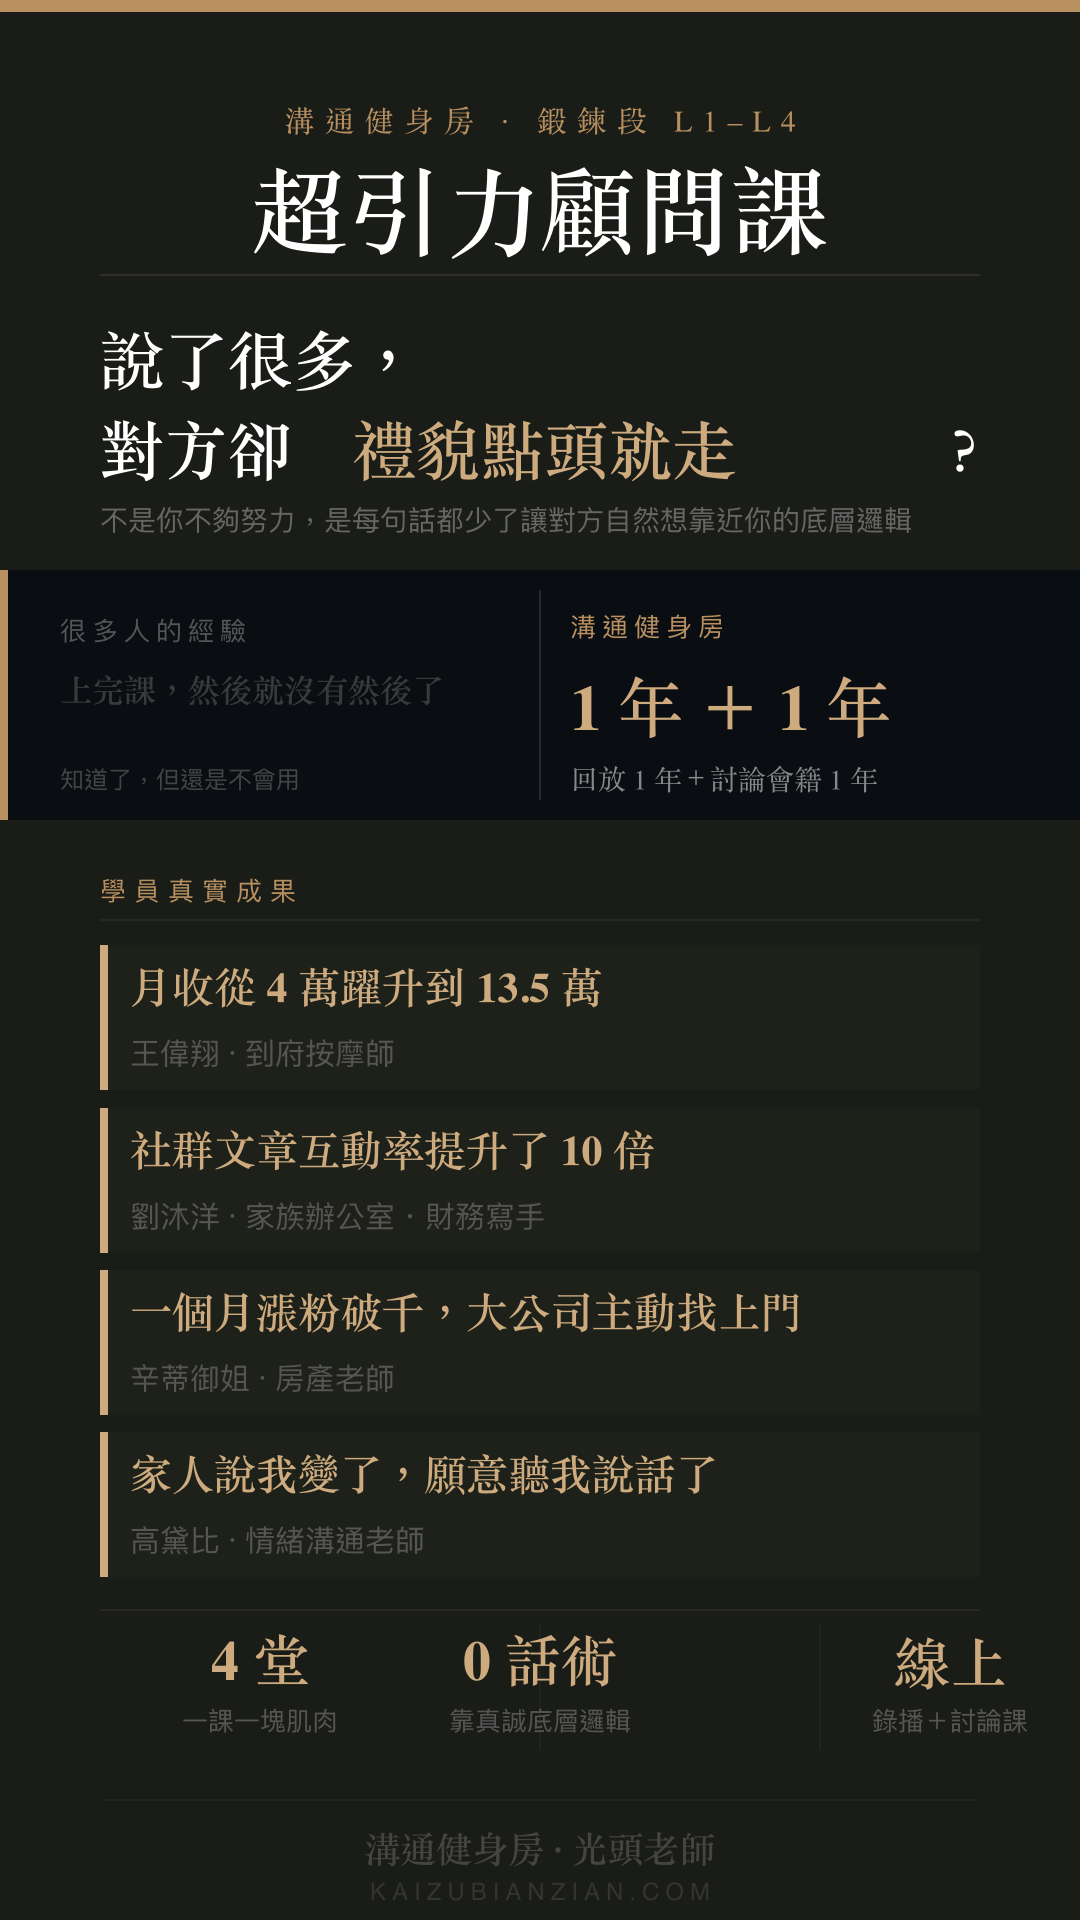
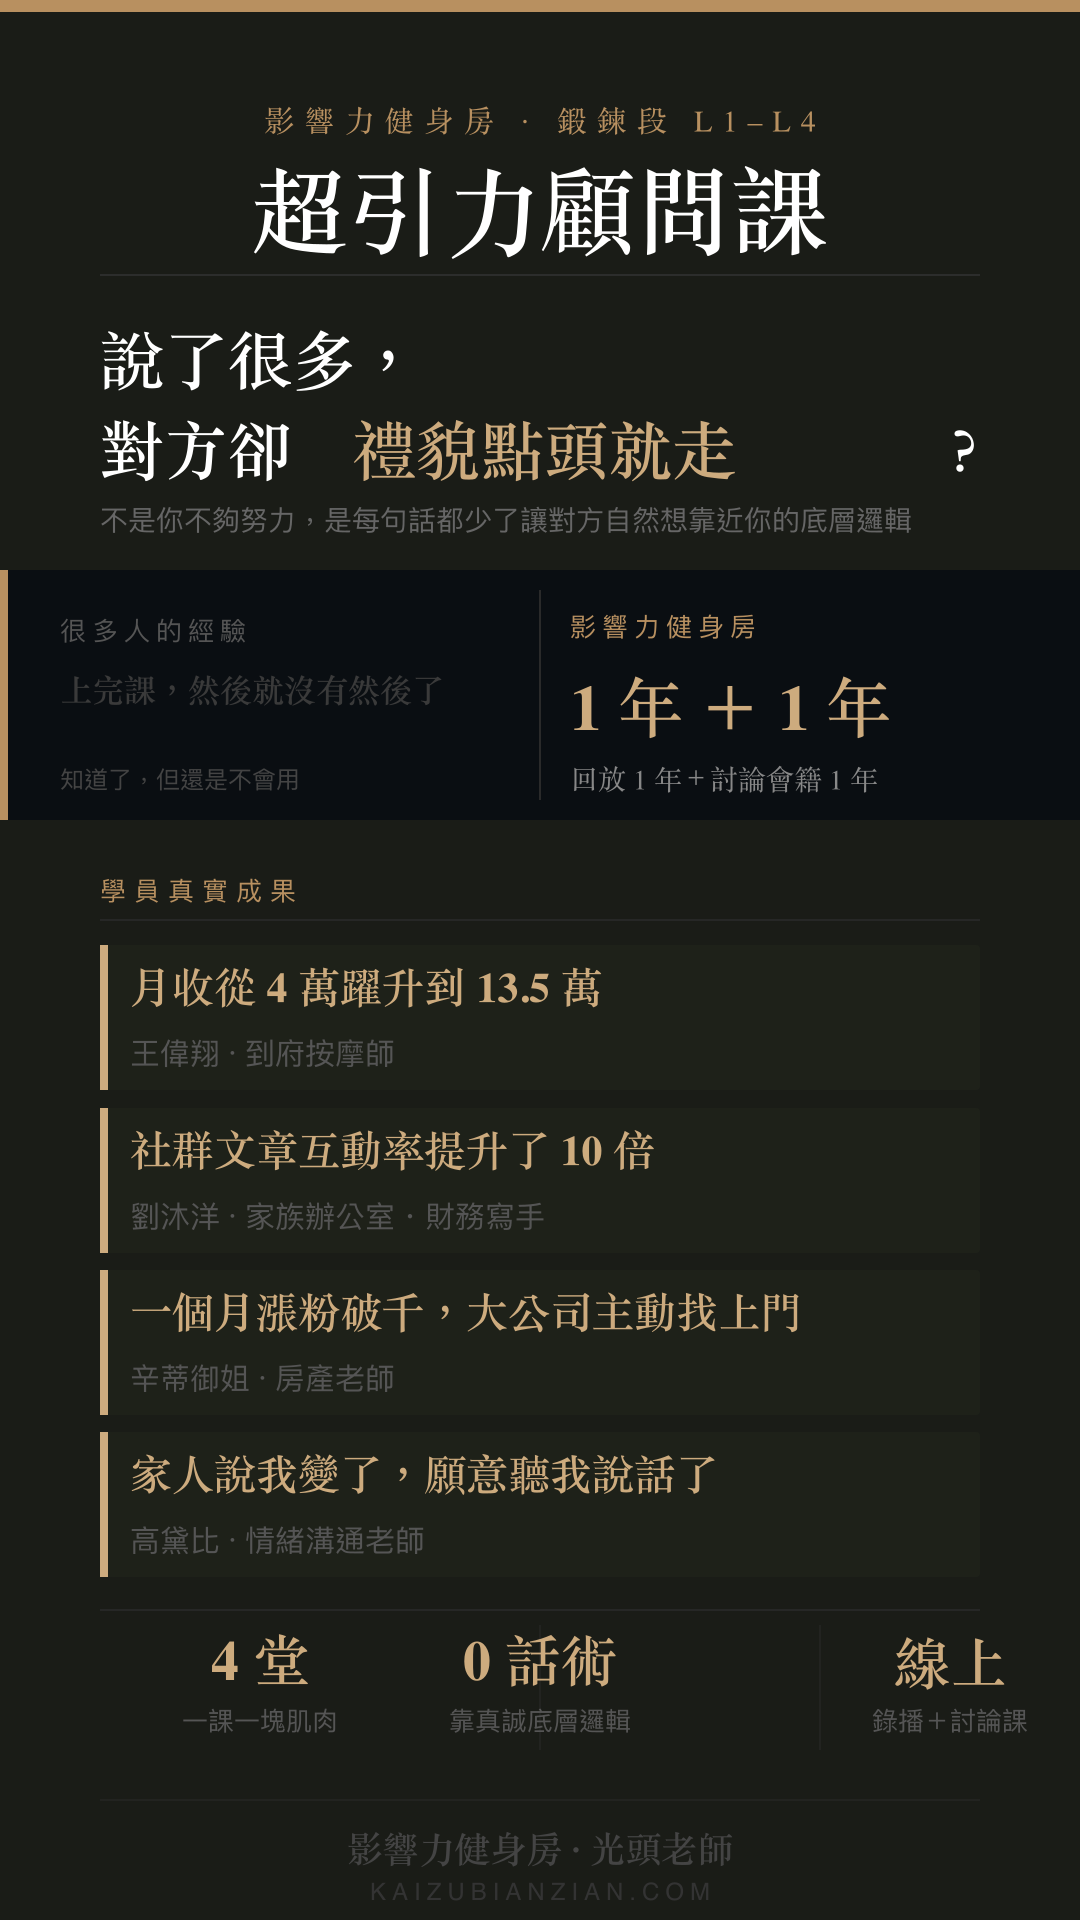
LP 三頁與三張海報補推 0903 改名：溝通健身房→影響力健身房
海報 SVG 改完已重跑 render-posters.js 出 PNG，否則對外看到的還是舊字。
講師頭銜順手拿掉「溝通」兩字（ATPI 四大肌肉框架創始人），直接替換會變成
「ATPI 影響力 4 大肌肉…影響力健身房創辦人」同句兩次影響力。

diff --git a/lplevel1.html b/lplevel1.html
@@ -351,14 +351,14 @@
 const LP = {
   // ── META ──────────────────────────────────────────────────
   meta: {
-    title:       "說了很多，對方卻點頭就走？｜溝通健身房",
+    title:       "說了很多，對方卻點頭就走？｜影響力健身房",
     description: "不靠話術，練出讓人自然想靠近你的吸引肌肉。",
     ogImage:     "photographic.PNG",
   },
 
   // ── NAV ───────────────────────────────────────────────────
   nav: {
-    brand:      "溝通健身房",
+    brand:      "影響力健身房",
     logoChar:   "光",
     ctaText:    "預約免費諮詢 →",
     ctaUrl:     "https://time.atpifit.com/",
@@ -397,7 +397,7 @@ const LP = {
     photoAlt: "光頭老師",
     tag:      "光頭教練 · IVOR",
     name:     "平凡人光頭",
-    title:    "ATPI 溝通 4 大肌肉框架創始人 · 溝通健身房創辦人",
+    title:    "ATPI 四大肌肉框架創始人 · 影響力健身房創辦人",
     timeline: [
       { tag: "低谷", heading: "開口不能共鳴，說完對方就走",    body: "那幾年我說了很多，客戶點頭、家人敷衍、朋友有禮貌地沉默。不是不努力，是根本不知道問題出在哪裡。" },
       { tag: "發現", heading: "吸引肌肉不是天生的",            body: "後來我才明白：讓人想聽你說話，是有結構的。不是魅力，不是口才，是你說話的底層邏輯對了，對方自然就想靠近。" },
@@ -515,7 +515,7 @@ const LP = {
   compare: {
     sectionTitle: "不只是一堂課，<br>是陪你<br>真正改變的系統",
     intro:        "常規課程教你怎麼說，這裡陪你說到真的會。",
-    headers:      ["比較項目", "常規課程", "溝通健身房特色"],
+    headers:      ["比較項目", "常規課程", "影響力健身房特色"],
     rows: [
       ["課後演練", "上課聽完，靠自己摸索怎麼用",       "討論課直播帶你改，4–5 人一組當場對練"],
       ["演練場域", "沒有練習機會，只能回家自己試",     "課堂內有真實演練場域，當場練、當場改"],
@@ -594,7 +594,7 @@ const LP = {
     },
     {
       q: "4 堂夠嗎？",
-      a: "4 堂是建立底層邏輯的時間。一週跑一個迴路——先看乾貨錄播，接著到溝通健身房打卡練 2–3 天，再進直播討論課讓老師當場校正。不是教你記很多東西，而是讓一個觀念真的進到你的說話方式裡。",
+      a: "4 堂是建立底層邏輯的時間。一週跑一個迴路——先看乾貨錄播，接著到影響力健身房打卡練 2–3 天，再進直播討論課讓老師當場校正。不是教你記很多東西，而是讓一個觀念真的進到你的說話方式裡。",
     },
     {
       q: "跟坊間的口才課或溝通課有什麼不同？",
@@ -625,7 +625,7 @@ const LP = {
   // ── CTA ───────────────────────────────────────────────────
   cta: {
     title:          "說了這麼久，<br>是時候讓人<br>真的想聽了。",
-    sub:            "光頭老師將與你 1v1 了解你的溝通現況，找出你哪一塊溝通肌肉還沒練起來。完全免費。",
+    sub:            "光頭老師將與你 1v1 了解你的溝通現況，找出你哪一塊影響力肌肉還沒練起來。完全免費。",
     btnText:        "預約免費諮詢 →",
     note:           "線上諮詢 · 60 分鐘 · 完全免費",
     guaranteeBadge: "風險逆轉保證",
@@ -635,14 +635,14 @@ const LP = {
 
   // ── FOOTER ────────────────────────────────────────────────
   footer: {
-    brand:    "光頭老師｜溝通健身房",
+    brand:    "光頭老師｜影響力健身房",
     subtitle: "LIGHTHEAD COACH · ATPIFIT.COM",
-    note:     "© 2025 溝通健身房 · 平凡人光頭 LINE Official Account<br>All rights reserved.",
+    note:     "© 2025 影響力健身房 · 平凡人光頭 LINE Official Account<br>All rights reserved.",
   },
 
   // ── STICKY BAR ────────────────────────────────────────────
   sticky: {
-    brand:   "光頭老師｜溝通健身房",
+    brand:   "光頭老師｜影響力健身房",
     tagline: "讓每句話都讓人想靠近你",
     btnText: "預約諮詢 →",
   },
@@ -768,7 +768,7 @@ const LP = {
     </div>
     <div class="highlight-banner-divider"></div>
     <div class="highlight-banner-block after">
-      <div class="highlight-banner-tag">溝通健身房</div>
+      <div class="highlight-banner-tag">影響力健身房</div>
       <div class="highlight-banner-system">1 年 ＋ 1 年</div>
       <div class="highlight-banner-heading">回放 1 年 ＋ 討論會籍 1 年</div>
       <div class="highlight-banner-sub">課上完，練習場還在——隨時回看，隨時把問題帶回討論課</div>

diff --git a/lplevel3.html b/lplevel3.html
@@ -351,14 +351,14 @@
 const LP = {
   // ── META ──────────────────────────────────────────────────
   meta: {
-    title:       "站上台，卻讓觀眾低頭滑手機？｜溝通健身房",
+    title:       "站上台，卻讓觀眾低頭滑手機？｜影響力健身房",
     description: "1vN 公眾演說成交率提升 20%，讓觀眾聽完主動找上你，而不是你去追。",
     ogImage:     "photographic.PNG",
   },
 
   // ── NAV ───────────────────────────────────────────────────
   nav: {
-    brand:      "溝通健身房",
+    brand:      "影響力健身房",
     logoChar:   "光",
     ctaText:    "預約免費諮詢 →",
     ctaUrl:     "https://time.atpifit.com/",
@@ -397,7 +397,7 @@ const LP = {
     photoAlt: "光頭老師",
     tag:      "光頭老師 · IVOR",
     name:     "平凡人光頭",
-    title:    "ATPI 溝通 4 大肌肉框架創始人 · 溝通健身房創辦人",
+    title:    "ATPI 四大肌肉框架創始人 · 影響力健身房創辦人",
     timeline: [
       { tag: "低谷", heading: "說完台下一片掌聲，然後沒有然後", body: "早期我演講說得很賣力，觀眾也喜歡，但走下台沒有一個人來問我。我以為是內容問題，其實是演說少了讓人「現在就想行動」的結構。" },
       { tag: "發現", heading: "演說成交是有公式的",              body: "後來我拆解了幾百場高成交演說，發現一個規律：不是說得好就能成交，是要讓觀眾在你說話的過程中，自己走過完整的心理歷程。" },
@@ -438,7 +438,7 @@ const LP = {
       {
         tag:      "鍛鍊段 · L1–L4",
         name:     "把 4 大肌肉裝進你的說話裡",
-        desc:     "演說能不能成交，底層是你的溝通肌肉。L1–L4 一課一塊，先把四塊底子練成本能，讓你開口就有引力。",
+        desc:     "演說能不能成交，底層是你的影響力肌肉。L1–L4 一課一塊，先把四塊底子練成本能，讓你開口就有引力。",
         keywords: ["ATPI吸引式架構", "端牛肉", "核心關鍵問句", "英雄之旅", "乾貨感", "不銷而銷"],
         weeks: [
           "L1｜A 吸引肌肉：學會「端牛肉」與「萬能關鍵問句」——揭露為什麼你說了很多，對方卻沒感覺，並找到讓人眼睛一亮的核心說法",
@@ -498,7 +498,7 @@ const LP = {
   compare: {
     sectionTitle: "不只是一堂課，<br>是陪你<br>真正改變的系統",
     intro:        "常規課程教你怎麼說，這裡陪你說到真的會。",
-    headers:      ["比較項目", "常規課程", "溝通健身房特色"],
+    headers:      ["比較項目", "常規課程", "影響力健身房特色"],
     rows: [
       ["課後演練", "上課聽完，靠自己摸索怎麼用",       "討論課直播帶你改，4–5 人一組當場對練"],
       ["演練場域", "沒有練習機會，只能回家自己試",     "課堂內有真實演練場域，當場練、當場改"],
@@ -617,14 +617,14 @@ const LP = {
 
   // ── FOOTER ────────────────────────────────────────────────
   footer: {
-    brand:    "光頭老師｜溝通健身房",
+    brand:    "光頭老師｜影響力健身房",
     subtitle: "LIGHTHEAD COACH · ATPIFIT.COM",
-    note:     "© 2025 溝通健身房 · 平凡人光頭 LINE Official Account<br>All rights reserved.",
+    note:     "© 2025 影響力健身房 · 平凡人光頭 LINE Official Account<br>All rights reserved.",
   },
 
   // ── STICKY BAR ────────────────────────────────────────────
   sticky: {
-    brand:   "光頭老師｜溝通健身房",
+    brand:   "光頭老師｜影響力健身房",
     tagline: "讓觀眾聽完主動找上你",
     btnText: "預約諮詢 →",
   },
@@ -750,7 +750,7 @@ const LP = {
     </div>
     <div class="highlight-banner-divider"></div>
     <div class="highlight-banner-block after">
-      <div class="highlight-banner-tag">溝通健身房</div>
+      <div class="highlight-banner-tag">影響力健身房</div>
       <div class="highlight-banner-system">1 年 ＋ 1 年</div>
       <div class="highlight-banner-heading">回放 1 年 ＋ 討論會籍 1 年</div>
       <div class="highlight-banner-sub">課上完，練習場還在——隨時回看，隨時把問題帶回討論課</div>

diff --git a/lplevel2.html b/lplevel2.html
@@ -351,14 +351,14 @@
 const LP = {
   // ── META ──────────────────────────────────────────────────
   meta: {
-    title:       "談了很久，對方還在考慮看看？｜溝通健身房",
+    title:       "談了很久，對方還在考慮看看？｜影響力健身房",
     description: "1v1 顧問成交率提升 50%，不靠話術，靠讓對方主動說出 Yes 的溝通結構。",
     ogImage:     "photographic.PNG",
   },
 
   // ── NAV ───────────────────────────────────────────────────
   nav: {
-    brand:      "溝通健身房",
+    brand:      "影響力健身房",
     logoChar:   "光",
     ctaText:    "預約免費諮詢 →",
     ctaUrl:     "https://time.atpifit.com/",
@@ -397,7 +397,7 @@ const LP = {
     photoAlt: "光頭老師",
     tag:      "光頭老師 · IVOR",
     name:     "平凡人光頭",
-    title:    "ATPI 溝通 4 大肌肉框架創始人 · 溝通健身房創辦人",
+    title:    "ATPI 四大肌肉框架創始人 · 影響力健身房創辦人",
     timeline: [
       { tag: "低谷", heading: "每次諮詢都以「我再想想」收場", body: "那段時間我做了很多諮詢，介紹得很詳細、客戶也點頭，但就是收不到單。不是產品問題，是我根本不知道溝通少了什麼。" },
       { tag: "發現", heading: "成交是有流程的",               body: "後來我才明白：讓人買單不是靠說服，是靠讓對方在對話過程中，自己走到「我需要這個」的結論。這是有結構的，不靠感覺。" },
@@ -492,7 +492,7 @@ const LP = {
   compare: {
     sectionTitle: "不只是一堂課，<br>是陪你<br>真正改變的系統",
     intro:        "常規課程教你怎麼說，這裡陪你說到真的會。",
-    headers:      ["比較項目", "常規課程", "溝通健身房特色"],
+    headers:      ["比較項目", "常規課程", "影響力健身房特色"],
     rows: [
       ["課後演練", "上課聽完，靠自己摸索怎麼用",       "討論課直播帶你改，4–5 人一組當場對練"],
       ["演練場域", "沒有練習機會，只能回家自己試",     "課堂內有真實演練場域，當場練、當場改"],
@@ -571,7 +571,7 @@ const LP = {
     },
     {
       q: "8 堂會不會太長？",
-      a: "成交是個需要內化的技能，不是記住幾句話就能用。一週跑一個迴路——乾貨錄播先看，到溝通健身房打卡練 2–3 天，再進直播討論課校正。走完 L1–L8，你的整個諮詢流程會完全不一樣。",
+      a: "成交是個需要內化的技能，不是記住幾句話就能用。一週跑一個迴路——乾貨錄播先看，到影響力健身房打卡練 2–3 天，再進直播討論課校正。走完 L1–L8，你的整個諮詢流程會完全不一樣。",
     },
     {
       q: "跟坊間的銷售課有什麼不同？",
@@ -616,14 +616,14 @@ const LP = {
 
   // ── FOOTER ────────────────────────────────────────────────
   footer: {
-    brand:    "光頭老師｜溝通健身房",
+    brand:    "光頭老師｜影響力健身房",
     subtitle: "LIGHTHEAD COACH · ATPIFIT.COM",
-    note:     "© 2025 溝通健身房 · 平凡人光頭 LINE Official Account<br>All rights reserved.",
+    note:     "© 2025 影響力健身房 · 平凡人光頭 LINE Official Account<br>All rights reserved.",
   },
 
   // ── STICKY BAR ────────────────────────────────────────────
   sticky: {
-    brand:   "光頭老師｜溝通健身房",
+    brand:   "光頭老師｜影響力健身房",
     tagline: "讓對方主動說 Yes",
     btnText: "預約諮詢 →",
   },
@@ -749,7 +749,7 @@ const LP = {
     </div>
     <div class="highlight-banner-divider"></div>
     <div class="highlight-banner-block after">
-      <div class="highlight-banner-tag">溝通健身房</div>
+      <div class="highlight-banner-tag">影響力健身房</div>
       <div class="highlight-banner-system">1 年 ＋ 1 年</div>
       <div class="highlight-banner-heading">回放 1 年 ＋ 討論會籍 1 年</div>
       <div class="highlight-banner-sub">課上完，練習場還在——隨時回看，隨時把問題帶回討論課</div>
